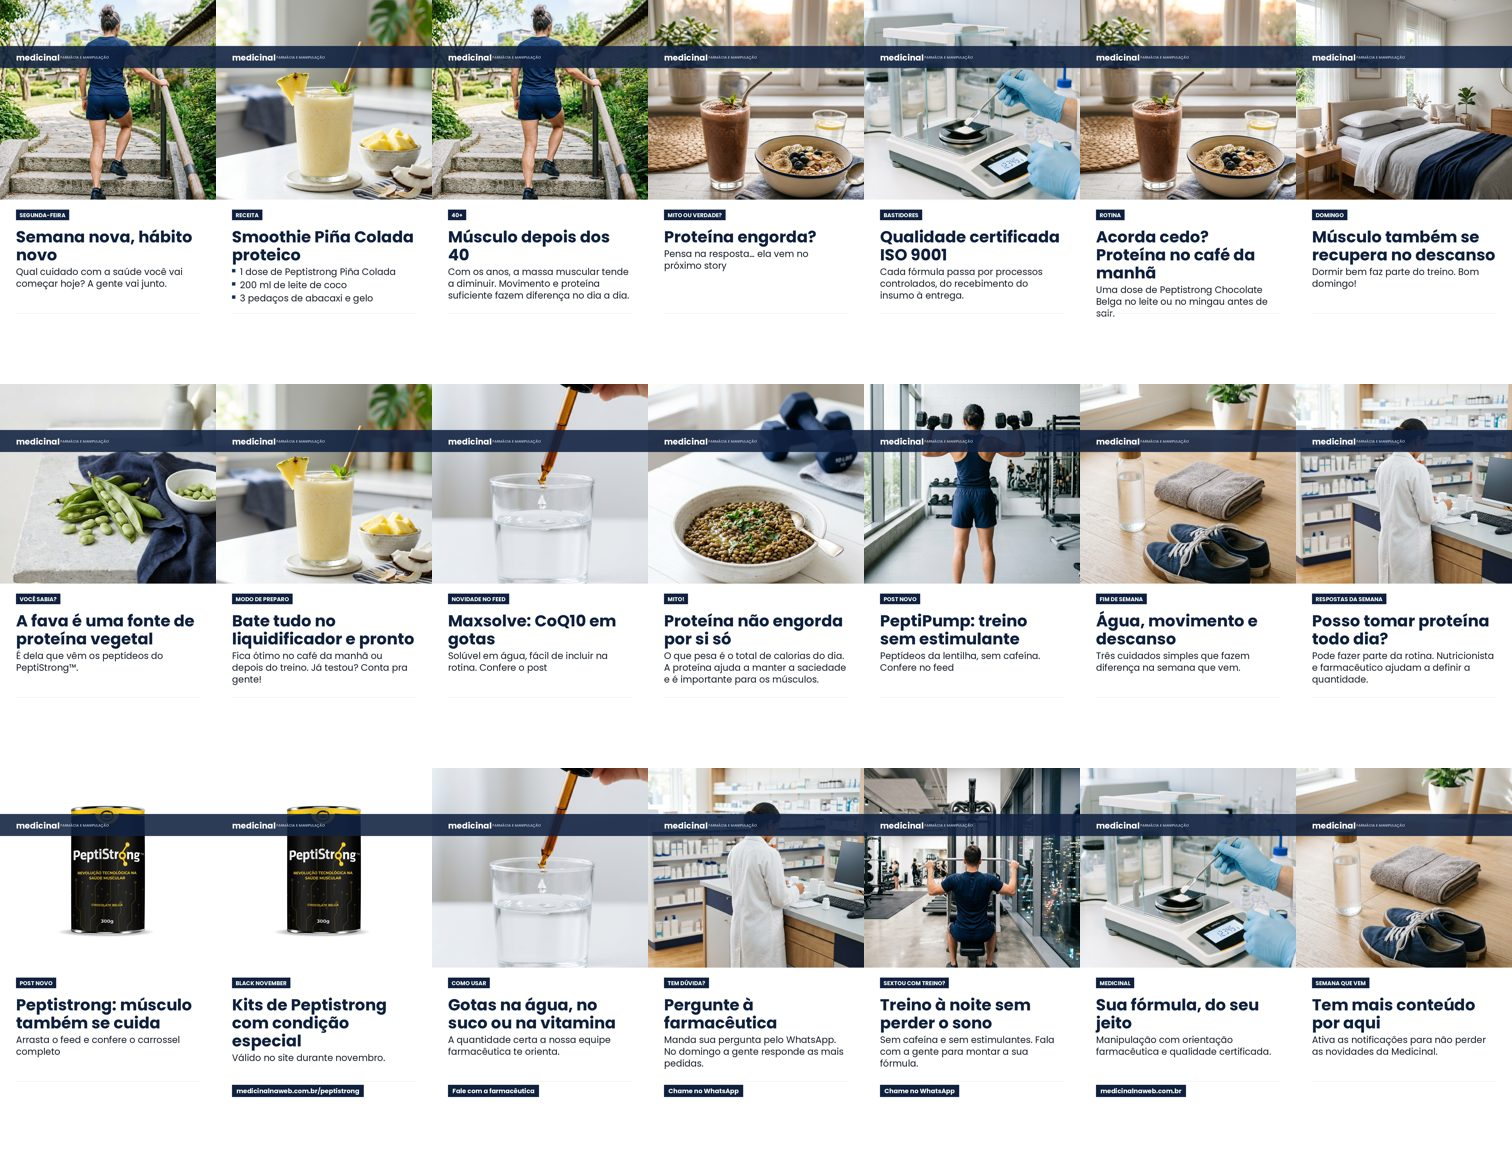
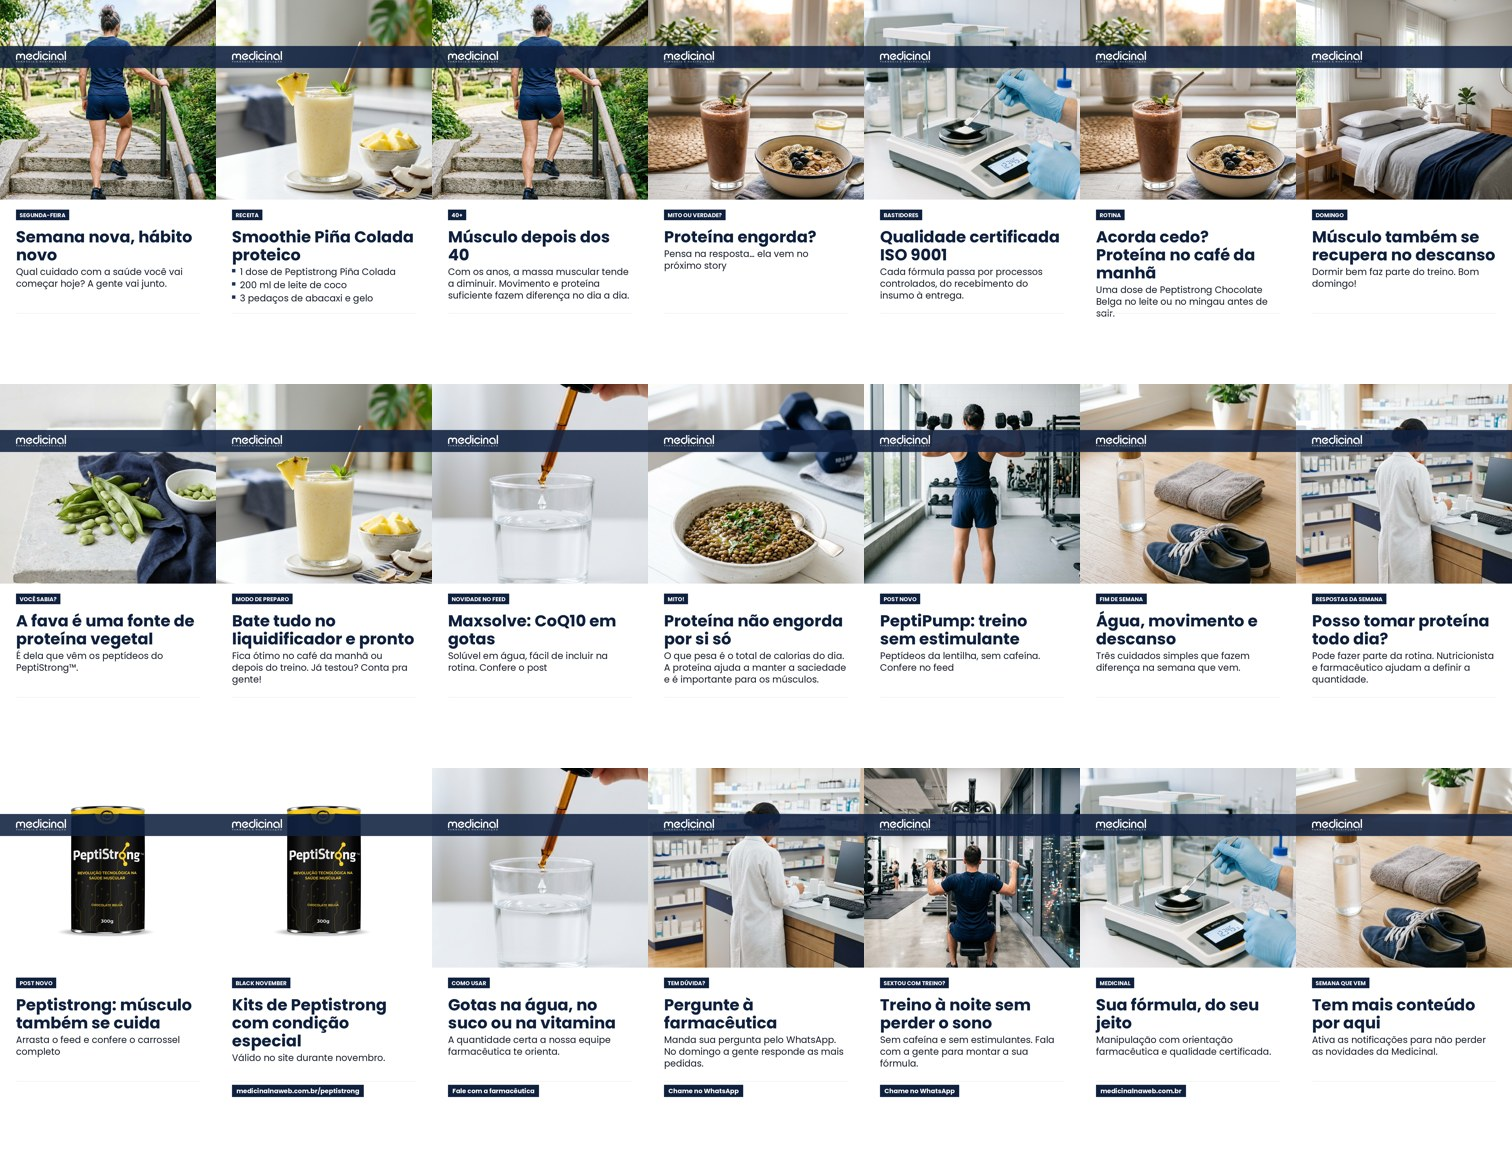
Marca oficial em todos os geradores (grade/marca.py), artes da semana refeitas; temas de varejo, lançamentos e vídeos institucionais
Claude-Session: https://claude.ai/code/session_01Bm6rABw341qEUcQn2o9EUx

diff --git a/grade/marca.py b/grade/marca.py
@@ -1,0 +1,32 @@
+"""Marca Medicinal nas artes: SEMPRE a partir do logo oficial do site (assets/logo/medicinal-logo-oficial.svg).
+
+Nunca digitar "medicinal" em fonte: usar estas funções.
+  palavra(cor, largura)          -> só a palavra "medicinal" recortada do logo
+  logo(tipo, cor, largura)       -> tipo 'completo' (símbolo + palavra + "FARMÁCIA E MANIPULAÇÃO")
+                                     ou 'sem-simbolo' (palavra + "FARMÁCIA E MANIPULAÇÃO")
+  cor: 'branco' (sobre foto/marinho), 'marinho' (sobre claro), 'off-white', 'original' (azuis do site)
+"""
+import os
+from PIL import Image
+
+PASTA = os.path.join(os.path.dirname(os.path.abspath(__file__)), 'assets', 'logo')
+
+
+def _abre(nome, largura):
+    im = Image.open(os.path.join(PASTA, nome)).convert('RGBA')
+    return im.resize((int(largura), int(im.height * largura / im.width)), Image.LANCZOS)
+
+
+def palavra(cor='branco', largura=170):
+    cor = 'azul-oficial' if cor == 'original' else cor
+    return _abre(f'medicinal-palavra-{cor}.png', largura)
+
+
+def logo(tipo='sem-simbolo', cor='branco', largura=260):
+    return _abre(f'medicinal-logo-{tipo}-{cor}.png', largura)
+
+
+def aplica(img, marca, xy):
+    """Cola a marca (RGBA) na arte, na posição (x, y) do canto superior esquerdo."""
+    img.paste(marca, (int(xy[0]), int(xy[1])), marca)
+    return img

diff --git a/grade/teste-padrao-2025/monta.py b/grade/teste-padrao-2025/monta.py
@@ -23,11 +23,10 @@ def ctext(d,y,t,f,sp=0,fill='white'):
   ws=[d.textlength(c,font=f) for c in t]; w=sum(ws)+sp*(len(t)-1); x=(1080-w)/2
   for c,cw in zip(t,ws): d.text((x,y),c,font=f,fill=fill); x+=cw+sp
 def logo(d,right=False,fill='white'):
-  # Logotipo oficial: a palavra "medicinal" recortada do logo do site (assets/logo), nunca texto digitado.
+  # marca oficial (grade/marca.py): a palavra "medicinal" recortada do logo do site, nunca texto digitado
+  import sys; sys.path.insert(0,os.path.join(D,'..')); import marca
   cor={'white':'branco','#ffffff':'branco',NAVY:'marinho',OFF:'off-white'}.get(fill,'branco')
-  wm=Image.open(R+'logo/medicinal-palavra-%s.png'%cor); L=170; wm=wm.resize((L,int(wm.height*L/wm.width)),Image.LANCZOS)
-  x=1080-60-L if right else 60
-  d._image.paste(wm,(x,54),wm)
+  wm=marca.palavra(cor,170); marca.aplica(d._image,wm,(1080-60-170 if right else 60,54))
 def grain(im,amt=10):
   n=Image.effect_noise((1080,1350),amt).convert('RGB'); return ImageChops.overlay(im,ImageEnhance.Brightness(n).enhance(1.0)) if False else Image.blend(im,ImageChops.add(im,n,2,-128),0.25)
 def cutout(path):

diff --git a/grade/semana-2026-11-09/gera2.py b/grade/semana-2026-11-09/gera2.py
@@ -1,5 +1,7 @@
 # Identidade azul-marinho/branco/cinza com foto: foto em cima, texto embaixo em faixa branca.
 import json, sys, os
+sys.path.insert(0, os.path.join(os.path.dirname(os.path.abspath(__file__)), '..'))
+import marca
 from PIL import Image, ImageDraw, ImageFont, ImageFilter, ImageOps
 HERE=os.path.dirname(os.path.abspath(__file__))
 BASE=os.path.join(HERE,'..')
@@ -42,8 +44,10 @@ def peca(p):
   if fh:
     bar=Image.new('RGBA',(W,110),NAVY+(225,)); im.paste(bar,(0,top),bar)
   d=ImageDraw.Draw(im)
-  d.text((M,top+28),'medicinal',font=font('b',42),fill=WHITE if fh else NAVY)
-  d.text((M+222,top+44),'FARMÁCIA E MANIPULAÇÃO',font=font('m',18),fill=(200,210,225) if fh else GRAY2)
+  # marca oficial (nunca texto digitado): palavra + FARMÁCIA E MANIPULAÇÃO, do logo do site
+  mk=marca.logo('sem-simbolo','branco' if fh else 'marinho',largura=250)
+  marca.aplica(im,mk,(M,top+(110-mk.height)//2))
+  d=ImageDraw.Draw(im)
   y=fh+50 if fh else top+170
   if p.get('kicker'):
     f=font('b',28); k=p['kicker'].upper(); tw=d.textlength(k,font=f)

diff --git a/grade/semana-2026-11-09/gera.py b/grade/semana-2026-11-09/gera.py
@@ -1,5 +1,7 @@
 # Versão 1 das artes (temas por produto, sem foto). Uso: python3 gera.py pecas.json <saida>
 import json, sys, os
+sys.path.insert(0, os.path.join(os.path.dirname(os.path.abspath(__file__)), '..'))
+import marca
 from PIL import Image, ImageDraw, ImageFont, ImageFilter
 HERE=os.path.dirname(os.path.abspath(__file__))
 BASE=os.path.join(HERE,'..')
@@ -52,7 +54,7 @@ def peca(p):
   top=250 if p['canal']=='story' else 110
   M=90
   # marca
-  d.text((M,top-70),'medicinal',font=font('b',40),fill=T['fg']); d.text((M+212,top-58),'FARMÁCIA E MANIPULAÇÃO',font=font('m',17),fill=T['mut'])
+  mk=marca.logo('sem-simbolo','branco' if sum(T['bg'])<300 else 'marinho',largura=240); marca.aplica(im,mk,(M,top-80)); d=ImageDraw.Draw(im)
   y=top+20
   if p.get('kicker'):
     f=font('b',30); tw=d.textlength(p['kicker'].upper(),font=f)

diff --git a/docs/12-fontes-e-temas.md b/docs/12-fontes-e-temas.md
@@ -90,6 +90,44 @@ Formato sugerido: carrossel "**O ativo por trás de…**". A capa mostra o tipo 
 
 A preencher depois da coleta: os 20 mais vendidos por mês, quais têm página no site, quais têm foto real e se cabem em algum tema foco.
 
+### 2.6 Produtos de varejo: linha atual e lançamentos
+
+Pedido do Ricardo em 08/11/2026. Os produtos prontos da Medicinal (varejo, com marca própria) são tema fixo, e **todo lançamento ganha sequência própria**: teaser ("adivinhe o lançamento", que funcionou em 2024) → apresentação → como usar → bastidor ou degustação → "comente PALAVRA".
+
+| Produto | Linha | Visto no perfil | Situação no catálogo (F2) |
+|---|---|---|---|
+| Peptistrong (Chocolate Belga e outros sabores) | suplemento | 2025–2026, melhor desempenho | confirmar |
+| PeptiPump | suplemento | 2026 | confirmar |
+| Caramelo de creatina | suplemento | 2024, melhor post do ano (299 interações) | confirmar se segue na linha |
+| Creatina em gomas (Energymm) | suplemento | 2024 | confirmar |
+| Gengibisco | chá | 2024 | confirmar |
+| Linha verão (bronzeador, iluminador, manteiga de bronzeamento) | cosmético | 2024–2025 | confirmar |
+| Derma Fusion (peeling, microagulhamento sem agulha) | dermocosmético | 2025, recorde de comentários | confirmar |
+| Mineral Hidrat, sérum Vitamina C, Tri Up, Glyco Beauty, primer | dermocosmético | 2025–2026 | confirmar |
+| HG Sobrancelha, repelente Icaridin | cosmético | 2024 | confirmar |
+| **Lançamentos** | — | — | **a lista vem do Ricardo / comercial** |
+
+Regras: foto **real** do produto para inserção em cena (`10-insercao-de-produto.md`), preço só com aprovação do comercial e alegações revisadas pela farmacêutica.
+
+### 2.7 Vídeos institucionais (sugeridos → aprovados → entram na grade)
+
+Pedido do Ricardo em 08/11/2026. Tomadas de vídeo da Medicinal sugeridas aqui; **cada uma só entra na grade depois de aprovada**. Ao aprovar, ela vira um bloco **Ideia** na Grade, com roteiro, e passa para Rascunho quando for gravada.
+
+| # | Tomada sugerida | Formato | Gancho / uso | Cuidados | Situação |
+|---|---|---|---|---|---|
+| V1 | Fachada e entrada da loja, luz do fim da tarde | reels 10–15 s | "Faz 24 anos que a gente abre essa porta" | — | sugerido |
+| V2 | Manipulação de perto: pesagem, balança, encapsulação, mãos com luva | reels 15–20 s | "Por trás de cada fórmula existe um farmacêutico" | nada de receita ou nome de paciente visível | sugerido |
+| V3 | Controle de qualidade e ISO 9001 | reels / carrossel | "Qualidade não é um ponto de chegada" (post de 09/2026 com 108) | — | sugerido |
+| V4 | Equipe de atendimento online (os 28 consultores) | reels | o vídeo de 02/2026 teve 135 interações | autorização de imagem de cada pessoa; telas sem dados de clientes | sugerido |
+| V5 | Farmacêutica responsável respondendo uma dúvida (série "Pergunte à farmacêutica") | reels falado | temas foco (queda de cabelo, massa magra) | autorização de imagem; sem prometer resultado | sugerido |
+| V6 | Do pedido à sacola: embalagem e entrega | reels | "A sacola que todo mundo ama receber" | sem etiqueta com nome e endereço de cliente | sugerido |
+| V7 | Bastidores de visitação médica | reels | formato de 12/2025 | autorização do médico; sem material de paciente | sugerido |
+| V8 | Degustação / escolha de sabor de lançamento | reels | "a decisão final pode ser sua: comente o sabor" (2025: 150 interações) | — | sugerido |
+| V9 | Eventos e parceiros (cursos, congressos) | carrossel / reels | presença da marca | autorização de quem aparece | sugerido |
+| V10 | História da Medicinal (fundação, 25 anos em 2026) | reels com fotos antigas | aniversário (2025: 176 interações) | — | sugerido |
+
+Todo vídeo segue o padrão visual (`09`): luz natural, tons quentes, gente real, logo oficial e legenda curta na tela. A IA pode gerar **vídeo de ambiente** (textura, luz, matéria-prima), mas **nunca** pessoa da equipe, cliente ou profissional de saúde.
+
 ## 3. Banco de pautas
 
 | Data | Pauta | Tema | Fonte | Formato | Situação |
@@ -101,4 +139,5 @@ A preencher depois da coleta: os 20 mais vendidos por mês, quais têm página n
 | Data | O que mudou |
 |---|---|
 | 08/11/2026 | Documento criado com as fontes F1 a F10 e os temas iniciais (pedido do Ricardo). |
+| 08/11/2026 | Seções 2.6 **Produtos de varejo e lançamentos** e 2.7 **Vídeos institucionais** (10 tomadas sugeridas, entram na grade após aprovação). |
 | 08/11/2026 | Seção 2.0 **Ativos foco** com repetição planejada no feed e nos stories, regras de rodízio e controle de inserções. Lista inicial a confirmar: Peptistrong, Keranat, GHK-Cu. |

diff --git a/CONTEXTO.md b/CONTEXTO.md
@@ -60,6 +60,7 @@ Este arquivo resume a conversa de 22/10 a 08/11/2026 que levou ao projeto. Leia 
 
 - **Padrão visual proposto** (base 2º semestre de 2025 + marinho `#102140`): `docs/09-padrao-visual.md`. Fontes gratuitas em `grade/assets/fonts/` (Playfair Display, Poppins, IBM Plex Mono, Archivo Black).
 - **Decisão de 08/11:** sem rosto da marca e sem sessão de fotos por ora, as imagens serão geradas por IA, com as regras da seção 11 do padrão. Automação "comente PALAVRA" (ManyChat) fica para depois.
+- **Grade (08/11):** as 24 artes da semana 09–15/11 foram refeitas com o logo oficial e trocadas na Grade (continuam Rascunho). Marca sempre por `grade/marca.py`.
 - **Teste do padrão com IA** (5 artes): `grade/teste-padrao-2025/`. Ricardo aprovou a direção. A arte com produto (D) **não passou**: virou o procedimento `docs/10-insercao-de-produto.md`. Para a 1ª arte com produto: medidas com régua e 6 fotos do Peptistrong (3 ângulos × luz dos dois lados).
 - **Linha editorial (08/11):** polemizar os temas; **queda de cabelo é o foco**, depois perda de massa magra, falta de zinco e visão (seção 13 do padrão, com os limites de saúde).
 
